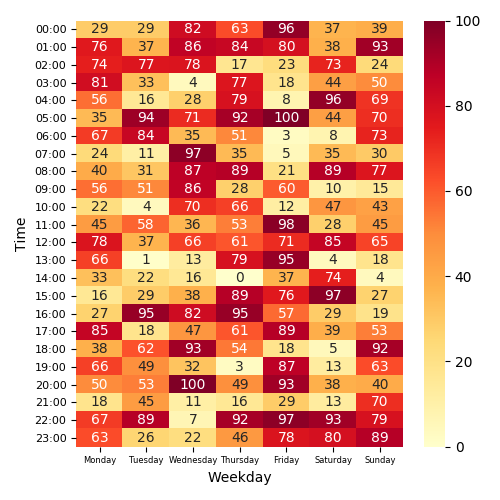
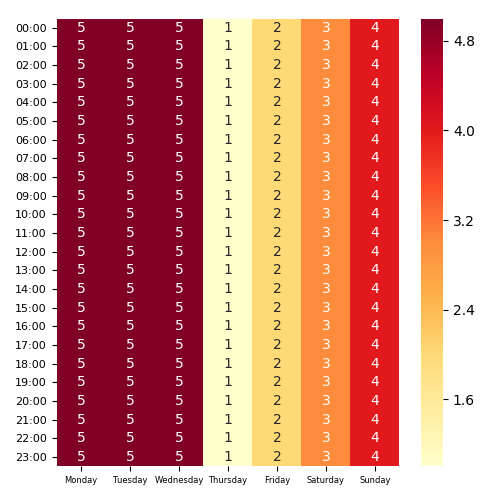
day 1

diff --git a/app.py b/app.py
@@ -7,6 +7,7 @@ import seaborn as sns
 import matplotlib.pyplot as plt
 import math
 import csv
+import pandas
 
 
 app = Flask(__name__)
@@ -26,15 +27,43 @@ def main():
 
     # Sets up data for csv-file, using pandas
     data = functions.setup_matrix(columns, x_axis_data, y_axis_data)
-
+    print(data)
+    data2 = pandas.DataFrame(data=[
+        [5, 5, 5, 1, 2, 3, 4],
+        [5, 5, 5, 1, 2, 3, 4],
+        [5, 5, 5, 1, 2, 3, 4],
+        [5, 5, 5, 1, 2, 3, 4],
+        [5, 5, 5, 1, 2, 3, 4],
+        [5, 5, 5, 1, 2, 3, 4],
+        [5, 5, 5, 1, 2, 3, 4],
+        [5, 5, 5, 1, 2, 3, 4],
+        [5, 5, 5, 1, 2, 3, 4],
+        [5, 5, 5, 1, 2, 3, 4],
+        [5, 5, 5, 1, 2, 3, 4],
+        [5, 5, 5, 1, 2, 3, 4],
+        [5, 5, 5, 1, 2, 3, 4],
+        [5, 5, 5, 1, 2, 3, 4],
+        [5, 5, 5, 1, 2, 3, 4],
+        [5, 5, 5, 1, 2, 3, 4],
+        [5, 5, 5, 1, 2, 3, 4],
+        [5, 5, 5, 1, 2, 3, 4],
+        [5, 5, 5, 1, 2, 3, 4],
+        [5, 5, 5, 1, 2, 3, 4],
+        [5, 5, 5, 1, 2, 3, 4],
+        [5, 5, 5, 1, 2, 3, 4],
+        [5, 5, 5, 1, 2, 3, 4],
+        [5, 5, 5, 1, 2, 3, 4]
+    ],
+    index=y_axis_data,
+    columns=x_axis_data)
     # Saves data to .csv
-    functions.save_csv("hotspot.csv", data, columns)
+    # functions.save_csv("hotspot.csv", data, columns)
 
     # Creates a DataFrame to use, x_axis_data = correct order of x-axis-column
-    df = functions.create_dataframe("hotspot.csv", x_axis_data, columns)
-    print(type(df))
+    # df = functions.create_dataframe("hotspot.csv", x_axis_data, columns)
+    # print(type(df))
     fig, ax = plt.subplots(figsize=(5,5))
-    sns.heatmap(df, ax=ax,cmap="YlOrRd", annot=True, fmt="d")
+    sns.heatmap(data2, ax=ax,cmap="YlOrRd", annot=True, fmt="d")
     plt.yticks(rotation=0,fontsize=8);
     plt.xticks(rotation=0, fontsize=6);
     plt.tight_layout()

diff --git a/functions.py b/functions.py
@@ -2,6 +2,7 @@
 import sys
 import pandas
 import random
+import numpy as np
 
 """
 Functions for hotspot
@@ -41,16 +42,19 @@ def setup_matrix(columns, x_data, y_data):
     """
     Returns the data
     """
-    data = {}
-    data[columns[0]] = []
-    data[columns[1]] = []
-    data[columns[2]] = []
-    for y in y_data:
-        for x in x_data:
-            data[columns[0]].append(y)
-            data[columns[1]].append(x)
-            data[columns[2]].append(random.randint(0, 100))
-
+    data = np.array([['','Col1','Col2'],
+                    ['Row1',1,2],
+                    ['Row2',3,4]])
+    # data = {}
+    # data[columns[0]] = []
+    # data[columns[1]] = []
+    # data[columns[2]] = []
+    # for y in y_data:
+    #     for x in x_data:
+    #         data[columns[0]].append(y)
+    #         data[columns[1]].append(x)
+    #         data[columns[2]].append(random.randint(0, 100))
+    #
     return data
 
 
